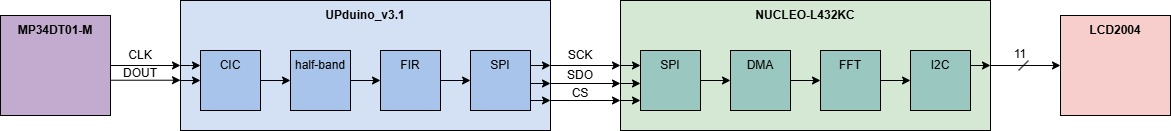
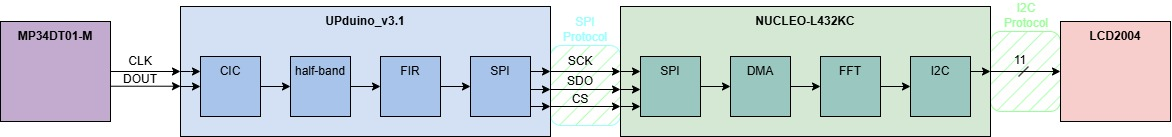
Built site for gh-pages

diff --git a/project_proposal.html b/project_proposal.html
@@ -124,7 +124,7 @@ ul.task-list li input[type="checkbox"] {
   <li><a href="#design-details" id="toc-design-details" class="nav-link" data-scroll-target="#design-details">Design Details</a>
   <ul class="collapse">
   <li><a href="#new-mcu-functionality" id="toc-new-mcu-functionality" class="nav-link" data-scroll-target="#new-mcu-functionality">New MCU Functionality</a></li>
-  <li><a href="#new-fpga-functionality" id="toc-new-fpga-functionality" class="nav-link" data-scroll-target="#new-fpga-functionality">New FPGA Functionality</a></li>
+  <li><a href="#sec-new-fpga-functionality" id="toc-sec-new-fpga-functionality" class="nav-link" data-scroll-target="#sec-new-fpga-functionality">New FPGA Functionality</a></li>
   <li><a href="#new-non-trivial-hardware" id="toc-new-non-trivial-hardware" class="nav-link" data-scroll-target="#new-non-trivial-hardware">New Non-Trivial Hardware</a></li>
   <li><a href="#riskiest-element" id="toc-riskiest-element" class="nav-link" data-scroll-target="#riskiest-element">Riskiest Element</a></li>
   </ul></li>
@@ -161,6 +161,7 @@ ul.task-list li input[type="checkbox"] {
 <section id="project-overview" class="level2">
 <h2 class="anchored" data-anchor-id="project-overview">Project Overview</h2>
 <p>This project seeks to emulate a karaoke machine by allowing a user to select from a set list of songs and displaying appropriately-timed lyrics accordingly. Once the song has finished, the project will grade the user’s performance — with both a numeric score and letter grade — based on how on-pitch they are.</p>
+<p>To be more specific, this will be done by sampling the user’s singing with the FPGA and a microphone, during which the former will perform decimation (see the <a href="#sec-new-fpga-functionality">New FPGA Functionality</a> section below for more details on this). Then, the FPGA will send this processed information to the MCU via SPI communication, so that it can further process such with FFT computations. Finally, the MCU will communicate with an LCD over I2C to display the corresponding lyrics of whatever song the user has chosen to sing.</p>
 </section>
 <section id="specifications" class="level2">
 <h2 class="anchored" data-anchor-id="specifications">Specifications</h2>
@@ -186,7 +187,7 @@ ul.task-list li input[type="checkbox"] {
 <th style="text-align: center;"><strong>Part Number</strong></th>
 <th style="text-align: center;"><strong>Quantity</strong></th>
 <th style="text-align: center;"><strong>Price</strong></th>
-<th style="text-align: center;"><strong>Link</strong></th>
+<th style="text-align: center;"><strong>Vendor</strong></th>
 </tr>
 </thead>
 <tbody>
@@ -199,12 +200,19 @@ ul.task-list li input[type="checkbox"] {
 </tr>
 <tr class="even">
 <td style="text-align: center;">Hosyond I2C 2004 LCD Module</td>
-<td style="text-align: center;">LCD2004</td>
+<td style="text-align: center;"><a href="https://dfimg.dfrobot.com/enshop/image/data/DFR0154/LCD2004%20hd44780%20Datasheet.pdf">HD44780U</a></td>
 <td style="text-align: center;">1</td>
 <td style="text-align: center;">$26.32 <em>($16.99 part, $6.99 shipping, $2.34 estimated tax)</em></td>
 <td style="text-align: center;"><a href="https://www.amazon.com/gp/product/B0C1G9GBRZ?th=1">Amazon</a></td>
 </tr>
 <tr class="odd">
+<td style="text-align: center;">Capacitor</td>
+<td style="text-align: center;">100nF Ceramic Capacitor</td>
+<td style="text-align: center;">1</td>
+<td style="text-align: center;">$0</td>
+<td style="text-align: center;">Stockroom</td>
+</tr>
+<tr class="even">
 <td style="text-align: center;"><strong>TOTAL</strong></td>
 <td style="text-align: center;"></td>
 <td style="text-align: center;"></td>
@@ -219,7 +227,7 @@ Table&nbsp;1: Bill of materials
 </figcaption>
 </figure>
 </div>
-<p>Note that any additional, basic resources (such as resistors, capacitors, etc.) needed will be taken from either the Engineering Stockroom or Digital Lab at no cost.</p>
+<p>Note that if the team discovers that they need any additional, basic resources (such as resistors, capacitors, etc.) later on in the project, these will be taken from either the Engineering Stockroom or Digital Lab at no cost.</p>
 </section>
 <section id="timeline" class="level3">
 <h3 class="anchored" data-anchor-id="timeline">Timeline</h3>
@@ -408,8 +416,8 @@ Table&nbsp;3: Task delegation
 <h3 class="anchored" data-anchor-id="new-mcu-functionality">New MCU Functionality</h3>
 <p>The new MCU functionality intended to be used is the I2C interface peripheral, which will enable communication with the LCD.</p>
 </section>
-<section id="new-fpga-functionality" class="level3">
-<h3 class="anchored" data-anchor-id="new-fpga-functionality">New FPGA Functionality</h3>
+<section id="sec-new-fpga-functionality" class="level3">
+<h3 class="anchored" data-anchor-id="sec-new-fpga-functionality">New FPGA Functionality</h3>
 <p>The new FPGA functionality intended to be used is decimation. In short, decimation is a term in (digital) signal processing that describes the removal of samples so as to reduce the complexity of subsequent computations.</p>
 </section>
 <section id="new-non-trivial-hardware" class="level3">
@@ -428,13 +436,14 @@ Table&nbsp;3: Task delegation
 <div id="fig-block-diagram" class="quarto-float quarto-figure quarto-figure-center anchored">
 <figure class="quarto-float quarto-float-fig figure">
 <div aria-describedby="fig-block-diagram-caption-0ceaefa1-69ba-4598-a22c-09a6ac19f8ca">
-<img src="images/project_proposal_block_diagram.jpg" id="fig-block-diagram" class="img-fluid figure-img">
+<img src="images/project_proposal_block_diagram.jpg" class="img-fluid figure-img">
 </div>
-<figcaption class="quarto-float-caption-bottom quarto-float-caption quarto-float-fig quarto-uncaptioned" id="fig-block-diagram-caption-0ceaefa1-69ba-4598-a22c-09a6ac19f8ca">
-Figure&nbsp;1
+<figcaption class="quarto-float-caption-bottom quarto-float-caption quarto-float-fig" id="fig-block-diagram-caption-0ceaefa1-69ba-4598-a22c-09a6ac19f8ca">
+Figure&nbsp;1: Block diagram
 </figcaption>
 </figure>
 </div>
+<p>The block diagram depicted in <a href="#fig-block-diagram">Figure 1</a> provides a general outline of all protocols and interfaces that the project will comprise.</p>
 </section>
 <section id="calculations-of-critical-parameters" class="level3">
 <h3 class="anchored" data-anchor-id="calculations-of-critical-parameters">Calculations of Critical Parameters</h3>
